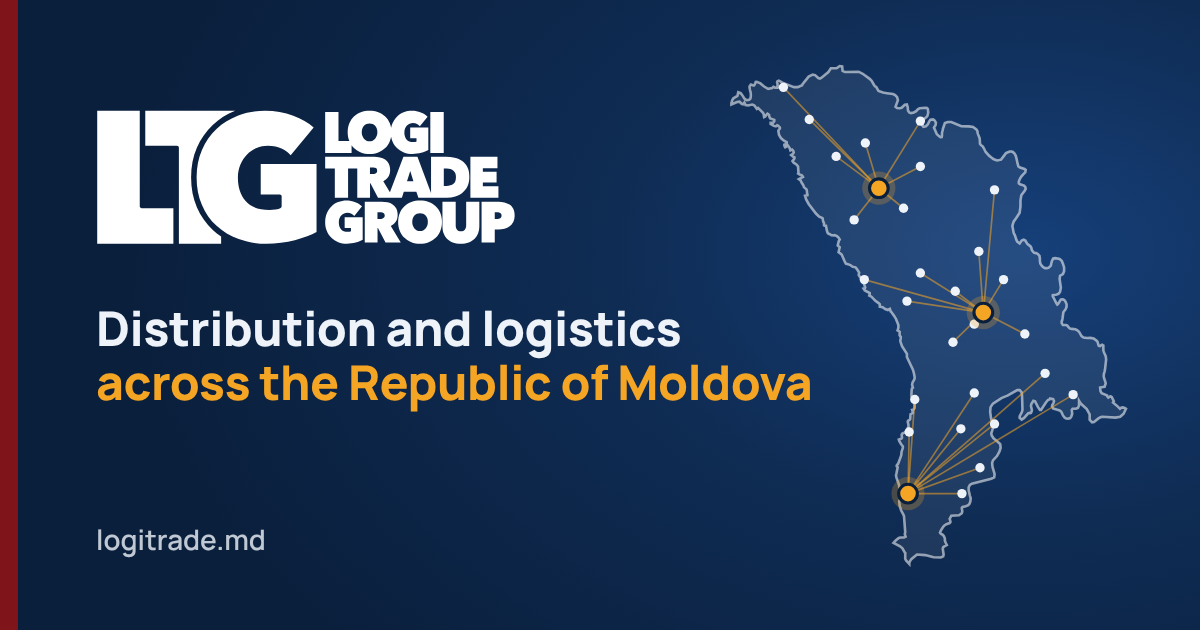
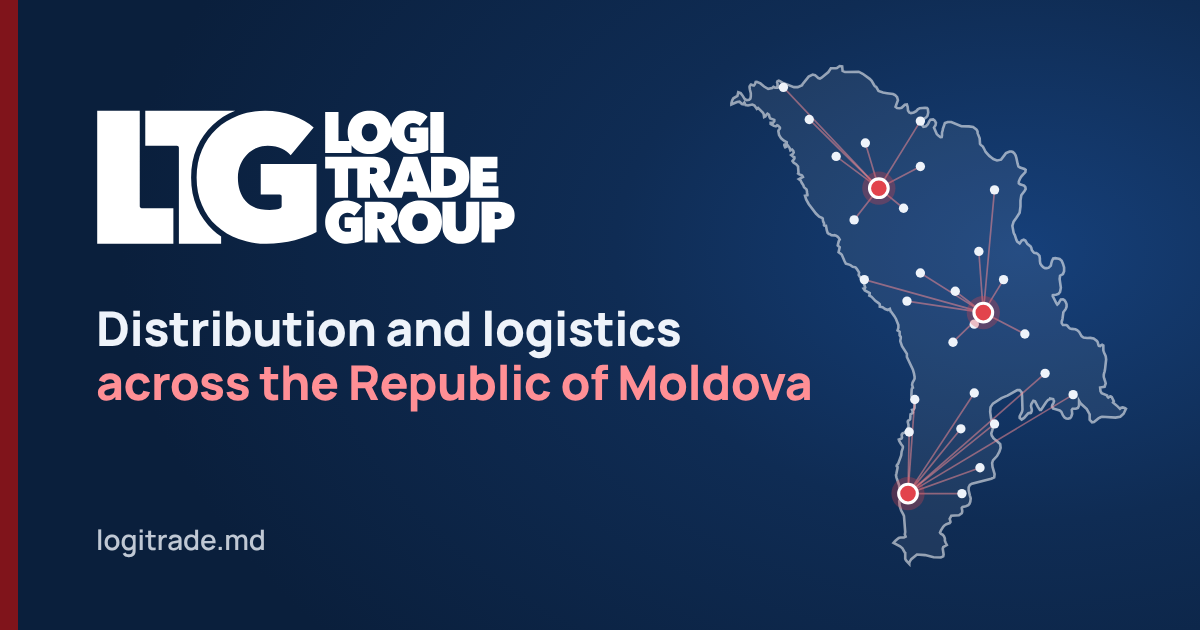
Use the brand maroon as the accent colour; add job applications with CV upload
- Accent switched from amber to the logo maroon: a brighter brand red
  (#b3202a) for buttons and fills with white text, and a soft rose tint for
  small text, lines and links on navy, keeping WCAG contrast. Map, icons,
  courier cap and link-preview images follow.
- Careers page: application form (name, phone, position, optional town,
  email, CV and note). Apply buttons preselect the position. The worker
  handles topic=job, checks the CV (PDF/Word/photo, max 5 MB) and attaches
  it to the email to the office.
- Generic "fill in all fields marked *" error; privacy text mentions CVs.

Claude-Session: https://claude.ai/code/session_01FKH4PrSWNNybMidJ27Q6Bn

diff --git a/src/i18n/ru.ts b/src/i18n/ru.ts
@@ -112,8 +112,20 @@ const ru: Dictionary = {
   careers: {
     title: 'Карьера',
     lead: 'Присоединяйтесь к растущей команде.',
-    intro: 'Отправьте резюме, указав название вакансии в теме письма.',
-    apply: 'Откликнуться по email',
+    intro: 'Выберите вакансию и откликнитесь через форму ниже. Достаточно номера телефона, резюме приветствуется, но не обязательно.',
+    apply: 'Откликнуться',
+    other: 'Другая вакансия / инициативный отклик',
+    formTitle: 'Откликнуться на вакансию',
+    formLead: 'Оставьте свои данные, и мы позвоним вам в течение нескольких рабочих дней.',
+    name: 'Имя и фамилия',
+    phone: 'Телефон',
+    email: 'Email (необязательно)',
+    position: 'Вакансия',
+    town: 'Где вы живёте? (необязательно)',
+    cv: 'Резюме (необязательно)',
+    cvHint: 'PDF, Word или фото, до 5 МБ',
+    message: 'Пара слов о себе (необязательно)',
+    send: 'Отправить отклик',
     jobs: [
       { title: 'Торговый агент', place: 'Кишинёв', text: 'Посещение клиентов, приём заказов и рост продаж в вашем районе. Служебный автомобиль.' },
       { title: 'Бухгалтер', place: 'Кишинёв', text: 'Учёт счетов-фактур, кассы и ежедневные бухгалтерские проверки.' },
@@ -135,8 +147,9 @@ const ru: Dictionary = {
     send: 'Отправить',
     formNote: 'Мы отвечаем в течение одного рабочего дня.',
     formErrors: {
+      file: 'Резюме должно быть в формате PDF, Word или фото размером до 5 МБ.',
       captcha: 'Не удалось подтвердить, что вы не робот. Пожалуйста, попробуйте ещё раз.',
-      invalid: 'Укажите имя, корректный email и текст сообщения.',
+      invalid: 'Пожалуйста, правильно заполните все поля, отмеченные *.',
       error: 'Не удалось отправить сообщение. Попробуйте ещё раз или напишите на office@logitrade.md.',
     },
     legalTitle: 'Реквизиты',
@@ -219,7 +232,7 @@ const ru: Dictionary = {
     title: 'Конфиденциальность и cookie',
     lead: 'Как мы обрабатываем ваши персональные данные на этом сайте.',
     sections: [
-      { heading: 'Какие данные мы собираем', text: 'Когда вы пользуетесь одной из наших форм, мы получаем ваше имя, email, сообщение и необязательные данные, которые вы добавите, например компанию или телефон. Мы используем их только для ответа и отправляем вам одно письмо с подтверждением, что сообщение дошло.' },
+      { heading: 'Какие данные мы собираем', text: 'Когда вы пользуетесь одной из наших форм, мы получаем ваше имя, email, сообщение и необязательные данные, которые вы добавите, например компанию или телефон. Если вы откликаетесь на вакансию, мы также получаем приложенное резюме. Мы используем данные только для ответа и отправляем вам одно письмо с подтверждением, что сообщение дошло.' },
       { heading: 'Сколько мы их храним', text: 'Мы храним сообщения только столько, сколько нужно для обработки запроса, затем удаляем их.' },
       { heading: 'Cookie и статистика', text: 'Сайт не использует cookie. Мы считаем посещения с помощью Cloudflare Web Analytics: сервис ничего не сохраняет на вашем устройстве и показывает нам только анонимные итоги, например просмотры страниц и страны. Шрифты загружаются с нашего сайта.' },
       { heading: 'Ваши права', text: 'Вы можете запросить доступ, исправление или удаление данных, написав на email офиса.' },

diff --git a/form-worker/src/index.js b/form-worker/src/index.js
@@ -1,5 +1,5 @@
 // Form handler for logitrade.md.
-// The site's forms (contact, producers and shop-owner pages) post here as normal HTML forms.
+// The site's forms (contact, producers, shop-owner and careers pages) post here as normal HTML forms.
 // We verify the Turnstile token, drop honeypot hits, email the message to the office,
 // send the visitor a short confirmation in their language and redirect back to the site.
 
@@ -12,10 +12,24 @@ const LIMITS = {
   phone: 40,
   products: 300,
   town: 120,
+  position: 160,
   message: 5000,
 };
 /** Which page each form lives on, for error redirects. */
-const PAGES = { contact: 'contact', partner: 'partners', shop: 'shops' };
+const PAGES = { contact: 'contact', partner: 'partners', shop: 'shops', job: 'careers' };
+
+/** CV upload on the careers form: PDF, Word or a photo, at most 5 MB. */
+const CV_MAX_BYTES = 5 * 1024 * 1024;
+const CV_TYPES = ['pdf', 'doc', 'docx', 'odt', 'rtf', 'jpg', 'jpeg', 'png', 'heic', 'webp'];
+
+function toBase64(buffer) {
+  const bytes = new Uint8Array(buffer);
+  let binary = '';
+  for (let i = 0; i < bytes.length; i += 0x8000) {
+    binary += String.fromCharCode(...bytes.subarray(i, i + 0x8000));
+  }
+  return btoa(binary);
+}
 
 /** Confirmation email sent to the visitor. It never repeats what they typed,
  *  so the form can't be used to send someone else arbitrary text. */
@@ -117,16 +131,30 @@ export default {
     const phoneOk = (f.phone.match(/\d/g) ?? []).length >= 6;
     // Shop owners often have no email: they leave a phone number and the shop's
     // name and town instead. The other forms need a name, an email and a message.
+    // Job applicants likewise only need a name, phone and position.
     const valid =
       topic === 'shop'
         ? Boolean(f.firstName && f.company && f.town && phoneOk && (!f.email || emailOk))
-        : Boolean(f.firstName && f.lastName && f.message && emailOk && (topic !== 'partner' || f.company));
+        : topic === 'job'
+          ? Boolean(f.firstName && f.position && phoneOk && (!f.email || emailOk))
+          : Boolean(f.firstName && f.lastName && f.message && emailOk && (topic !== 'partner' || f.company));
     if (!valid) return fail('invalid');
+
+    // Optional CV, sent to the office as an email attachment.
+    const attachments = [];
+    const cv = topic === 'job' ? form.get('cv') : null;
+    if (cv && typeof cv === 'object' && cv.size > 0) {
+      const ext = String(cv.name ?? '').split('.').pop().toLowerCase();
+      if (cv.size > CV_MAX_BYTES || !CV_TYPES.includes(ext)) return fail('file');
+      const safeName = `CV ${f.firstName}`.replace(/[^\p{L}\p{N} _-]+/gu, '').trim().slice(0, 60) || 'CV';
+      attachments.push({ filename: `${safeName}.${ext}`, content: toBase64(await cv.arrayBuffer()) });
+    }
 
     const heading = {
       contact: 'Mesaj din formularul de contact',
       partner: 'Cerere de parteneriat (pagina „Pentru producători”)',
       shop: 'Cerere de vizită a agentului (pagina „Pentru magazine”)',
+      job: 'Candidatură pentru un post (pagina „Cariere”)',
     }[topic];
     const text = [
       heading,
@@ -134,7 +162,8 @@ export default {
       `Nume: ${`${f.firstName} ${f.lastName}`.trim()}`,
       `Email: ${f.email || '-'}`,
       `Telefon: ${f.phone || '-'}`,
-      `${topic === 'shop' ? 'Magazin' : 'Companie'}: ${f.company || '-'}`,
+      ...(topic === 'job' ? [] : [`${topic === 'shop' ? 'Magazin' : 'Companie'}: ${f.company || '-'}`]),
+      ...(topic === 'job' ? [`Post: ${f.position}`, `Localitate: ${f.town || '-'}`, `CV atașat: ${attachments.length ? 'da' : 'nu'}`] : []),
       ...(topic === 'shop' ? [`Localitate: ${f.town}`] : []),
       ...(topic === 'partner' ? [`Produse: ${f.products || '-'}`] : []),
       `Limba site-ului: ${LOCALES[lang] === undefined ? 'ro' : lang}`,
@@ -146,6 +175,7 @@ export default {
       contact: `Mesaj nou de pe site: ${f.firstName} ${f.lastName}`,
       partner: `Cerere de parteneriat: ${f.company} (${f.firstName} ${f.lastName})`,
       shop: `Magazin nou: ${f.company}, ${f.town} (${f.phone})`,
+      job: `Candidat: ${f.position}, ${`${f.firstName} ${f.lastName}`.trim()} (${f.phone})`,
     }[topic];
 
     const ok = await sendEmail(env, {
@@ -153,6 +183,7 @@ export default {
       ...(f.email ? { reply_to: f.email } : {}),
       subject: oneLine(subject),
       text,
+      ...(attachments.length ? { attachments } : {}),
     });
     if (!ok) return fail('error');
 

diff --git a/src/i18n/ro.ts b/src/i18n/ro.ts
@@ -112,8 +112,20 @@ const ro: Dictionary = {
   careers: {
     title: 'Cariere',
     lead: 'Alătură-te unei echipe în creștere.',
-    intro: 'Trimite CV-ul cu numele postului în subiect.',
-    apply: 'Aplică prin email',
+    intro: 'Alege postul și aplică prin formularul de mai jos. Ajunge un număr de telefon, iar CV-ul este binevenit, dar nu obligatoriu.',
+    apply: 'Aplică',
+    other: 'Alt post / candidatură spontană',
+    formTitle: 'Aplică pentru un post',
+    formLead: 'Lasă-ne datele tale și te sunăm în câteva zile lucrătoare.',
+    name: 'Nume și prenume',
+    phone: 'Telefon',
+    email: 'Email (opțional)',
+    position: 'Postul',
+    town: 'Unde locuiești? (opțional)',
+    cv: 'CV (opțional)',
+    cvHint: 'PDF, Word sau o poză, până la 5 MB',
+    message: 'Câteva cuvinte despre tine (opțional)',
+    send: 'Trimite candidatura',
     jobs: [
       { title: 'Agent de vânzări', place: 'Chișinău', text: 'Vizitezi clienții, preiei comenzi și crești vânzările în zona ta. Automobil de serviciu.' },
       { title: 'Contabil', place: 'Chișinău', text: 'Evidența facturilor, a casei și verificări contabile zilnice.' },
@@ -135,8 +147,9 @@ const ro: Dictionary = {
     send: 'Trimite',
     formNote: 'Răspundem în cel mult o zi lucrătoare.',
     formErrors: {
+      file: 'CV-ul trebuie să fie PDF, Word sau o poză de până la 5 MB.',
       captcha: 'Nu am putut confirma că nu ești robot. Te rugăm să încerci din nou.',
-      invalid: 'Completează numele, o adresă de email validă și mesajul.',
+      invalid: 'Completează corect toate câmpurile marcate cu *.',
       error: 'Mesajul nu a putut fi trimis. Încearcă din nou sau scrie-ne la office@logitrade.md.',
     },
     legalTitle: 'Date de identificare',
@@ -219,7 +232,7 @@ const ro: Dictionary = {
     title: 'Confidențialitate și cookie-uri',
     lead: 'Cum tratăm datele tale personale pe acest site.',
     sections: [
-      { heading: 'Ce date colectăm', text: 'Când folosești unul dintre formularele noastre primim numele, adresa de email, mesajul și datele opționale pe care le adaugi, cum ar fi compania sau telefonul. Le folosim doar pentru a-ți răspunde și îți trimitem un singur email care confirmă că mesajul a ajuns.' },
+      { heading: 'Ce date colectăm', text: 'Când folosești unul dintre formularele noastre primim numele, adresa de email, mesajul și datele opționale pe care le adaugi, cum ar fi compania sau telefonul. Dacă aplici pentru un post, primim și CV-ul atașat. Le folosim doar pentru a-ți răspunde și îți trimitem un singur email care confirmă că mesajul a ajuns.' },
       { heading: 'Cât timp le păstrăm', text: 'Păstrăm mesajele doar cât este necesar pentru a soluționa solicitarea, apoi le ștergem.' },
       { heading: 'Cookie-uri și statistici', text: 'Acest site nu folosește cookie-uri. Numărăm vizitele cu Cloudflare Web Analytics, care nu salvează nimic pe dispozitivul tău și ne arată doar totaluri anonime, cum ar fi paginile vizitate și țările. Fonturile sunt servite de pe site-ul nostru.' },
       { heading: 'Drepturile tale', text: 'Poți cere accesul, corectarea sau ștergerea datelor scriind la adresa de email a oficiului.' },

diff --git a/src/i18n/en.ts b/src/i18n/en.ts
@@ -113,8 +113,20 @@ const en = {
     title: 'Careers',
     lead: 'Join a growing team that keeps the country supplied.',
     // TODO: replace with real openings.
-    intro: 'Send your CV with the position name in the subject line.',
-    apply: 'Apply by email',
+    intro: 'Pick a position and apply with the form below. A phone number is enough, and a CV is welcome but not required.',
+    apply: 'Apply',
+    other: 'Other / open application',
+    formTitle: 'Apply for a job',
+    formLead: 'Leave your details and we will call you within a few business days.',
+    name: 'Full name',
+    phone: 'Phone',
+    email: 'Email (optional)',
+    position: 'Position',
+    town: 'Where do you live? (optional)',
+    cv: 'CV (optional)',
+    cvHint: 'PDF, Word or a photo, up to 5 MB',
+    message: 'A few words about you (optional)',
+    send: 'Send application',
     jobs: [
       { title: 'Sales agent', place: 'Chișinău', text: 'Visit customers, take orders and grow sales in your area. Company car provided.' },
       { title: 'Accountant', place: 'Chișinău', text: 'Handle invoices, cash records and daily accounting checks.' },
@@ -136,8 +148,9 @@ const en = {
     send: 'Send message',
     formNote: 'We reply within one business day.',
     formErrors: {
+      file: 'The CV must be a PDF, Word file or photo of up to 5 MB.',
       captcha: 'We could not confirm you are not a robot. Please try again.',
-      invalid: 'Please fill in your name, a valid email address and your message.',
+      invalid: 'Please fill in all fields marked with * correctly.',
       error: 'Your message could not be sent. Please try again or write to office@logitrade.md.',
     },
     legalTitle: 'Company details',
@@ -221,7 +234,7 @@ const en = {
     // TODO: replace with text approved by Logitrade’s legal advisor.
     lead: 'How we handle your personal data on this website.',
     sections: [
-      { heading: 'What we collect', text: 'When you use one of our forms we receive your name, email address, message and any optional details you add, such as your company or phone number. We use this only to reply to you, and we send you one email confirming that your message arrived.' },
+      { heading: 'What we collect', text: 'When you use one of our forms we receive your name, email address, message and any optional details you add, such as your company or phone number. If you apply for a job, we also receive the CV you attach. We use this only to reply to you, and we send you one email confirming that your message arrived.' },
       { heading: 'How long we keep it', text: 'We keep messages only as long as needed to handle your request, and then delete them.' },
       { heading: 'Cookies and statistics', text: 'This site sets no cookies. We count visits with Cloudflare Web Analytics, which stores nothing on your device and gives us only anonymous totals, such as page views and countries. Fonts are served from our own site.' },
       { heading: 'Your rights', text: 'You can ask us to see, correct or delete your data by writing to our office email.' },

diff --git a/src/styles/global.css b/src/styles/global.css
@@ -1,10 +1,15 @@
-/* Logitrade design tokens. Brand colours are a first proposal: deep navy + amber. */
+/* Logitrade design tokens: deep navy with the brand maroon from the logo. */
 :root {
   --navy-900: #0a1f3c;
   --navy-800: #0f2c54;
   --navy-700: #16407a;
-  --amber-500: #f5a524;
-  --amber-600: #d98b0b;
+  /* Brand maroon (#80141b, logo) is too dark to read on navy, so the site uses
+     two tints of it: a brighter red for buttons and fills (white text on it),
+     and a soft rose for small text, lines and highlights on the dark background. */
+  --brand-maroon: #80141b;
+  --accent: #b3202a;
+  --accent-hover: #c62b35;
+  --accent-soft: #ff8f95;
   /* One continuous dark theme: light text on a navy gradient that runs the full page. */
   --ink: #eef3fa;
   --muted: rgba(226, 234, 245, 0.74);
@@ -47,7 +52,7 @@ svg {
 }
 
 a {
-  color: #ffc35c;
+  color: var(--accent-soft);
 }
 
 /* Full-page gradient, fixed behind everything (a pseudo-element works on iOS too). */
@@ -57,7 +62,7 @@ body::before {
   inset: 0;
   z-index: -1;
   background:
-    radial-gradient(900px 600px at 85% 0%, rgba(245, 165, 36, 0.14), transparent 60%),
+    radial-gradient(900px 600px at 85% 0%, rgba(179, 32, 42, 0.22), transparent 60%),
     radial-gradient(800px 700px at 0% 100%, rgba(37, 99, 184, 0.35), transparent 60%),
     linear-gradient(160deg, #0a1f3c 0%, #0f2c54 45%, #153f78 100%);
 }
@@ -124,7 +129,7 @@ p {
   font-weight: 700;
   letter-spacing: 0.12em;
   text-transform: uppercase;
-  color: var(--amber-600);
+  color: var(--accent-soft);
   margin-bottom: 12px;
 }
 
@@ -149,12 +154,12 @@ p {
 }
 
 .btn--primary {
-  background: var(--amber-500);
-  color: var(--navy-900);
+  background: var(--accent);
+  color: #fff;
 }
 
 .btn--primary:hover {
-  background: var(--amber-600);
+  background: var(--accent-hover);
 }
 
 .btn--ghost {
@@ -220,8 +225,8 @@ p {
   top: 0.45em;
   width: 14px;
   height: 8px;
-  border-left: 3px solid var(--amber-500);
-  border-bottom: 3px solid var(--amber-500);
+  border-left: 3px solid var(--accent-soft);
+  border-bottom: 3px solid var(--accent-soft);
   transform: rotate(-45deg);
 }
 
@@ -258,7 +263,7 @@ p {
 }
 
 :focus-visible {
-  outline: 3px solid var(--amber-500);
+  outline: 3px solid var(--accent-soft);
   outline-offset: 2px;
 }
 

diff --git a/README.md b/README.md
@@ -29,7 +29,7 @@ The site is built in Romanian (default, served at `/`), English (`/en/...`) and 
 | `/about` | Story, mission, vision, values, figures, partners |
 | `/partners` | For producers and importers: benefits, how it works, partnership request form |
 | `/shops` | For shop owners: why order from Logitrade, agent-visit request form (phone is enough) |
-| `/careers` | Job openings, apply by email |
+| `/careers` | Job openings and an application form with optional CV upload (PDF, Word or photo, up to 5 MB, sent as an email attachment) |
 | `/contact` | Office details, contact form, map |
 | `/thanks` | Shown after a form is sent |
 | `/privacy` | Privacy and cookies |
@@ -42,7 +42,7 @@ The site is built in Romanian (default, served at `/`), English (`/en/...`) and 
 
 ## Contact form
 
-All forms (contact, producers and shop-owner pages, `src/components/ContactForm.astro`) post
+All forms (contact, producers, shop-owner and careers pages, `src/components/ContactForm.astro`) post
 to a small Cloudflare Worker in `form-worker/`. The worker checks Cloudflare Turnstile
 (free bot protection), ignores honeypot hits and emails the message to
 office@logitrade.md through Resend, sending from `website@logitrade.md` with SPF and
